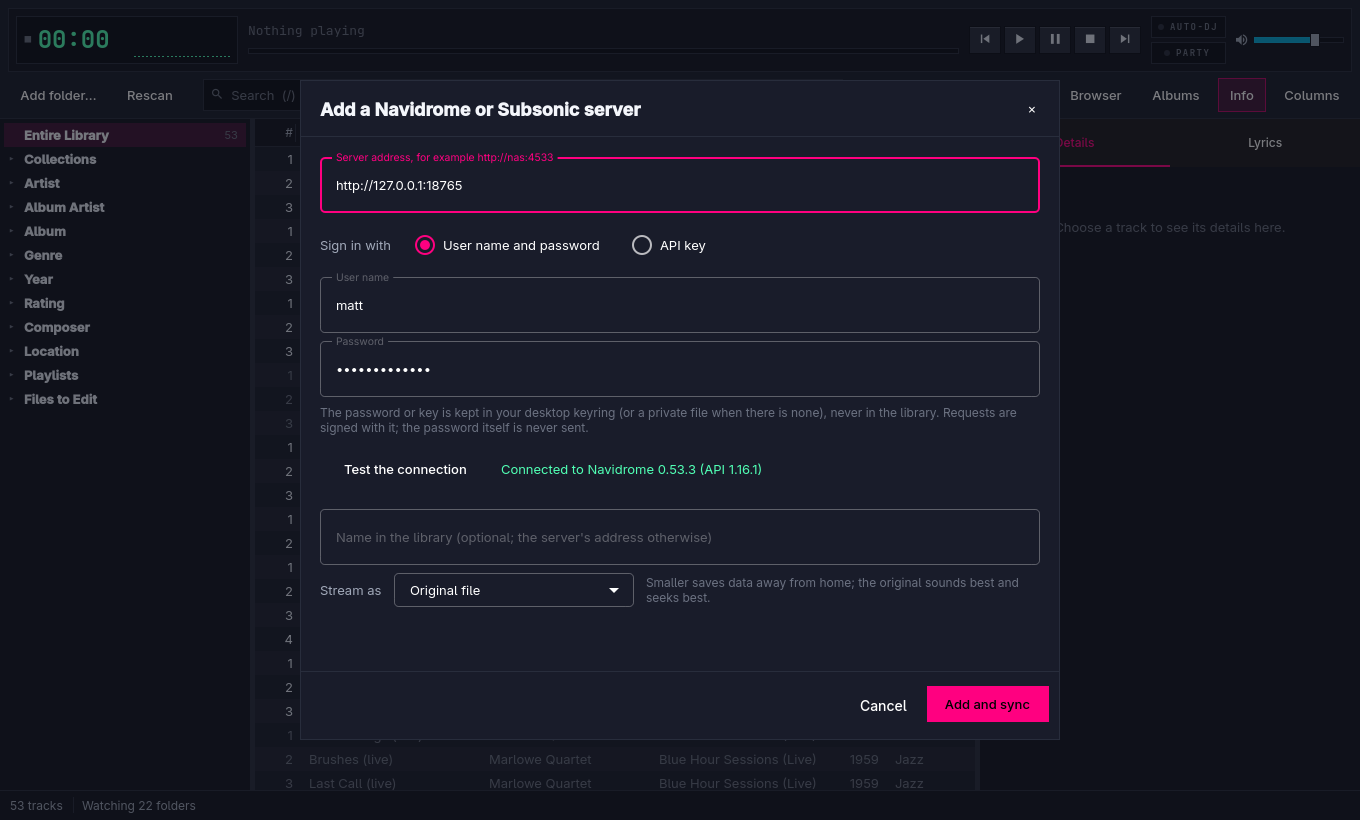
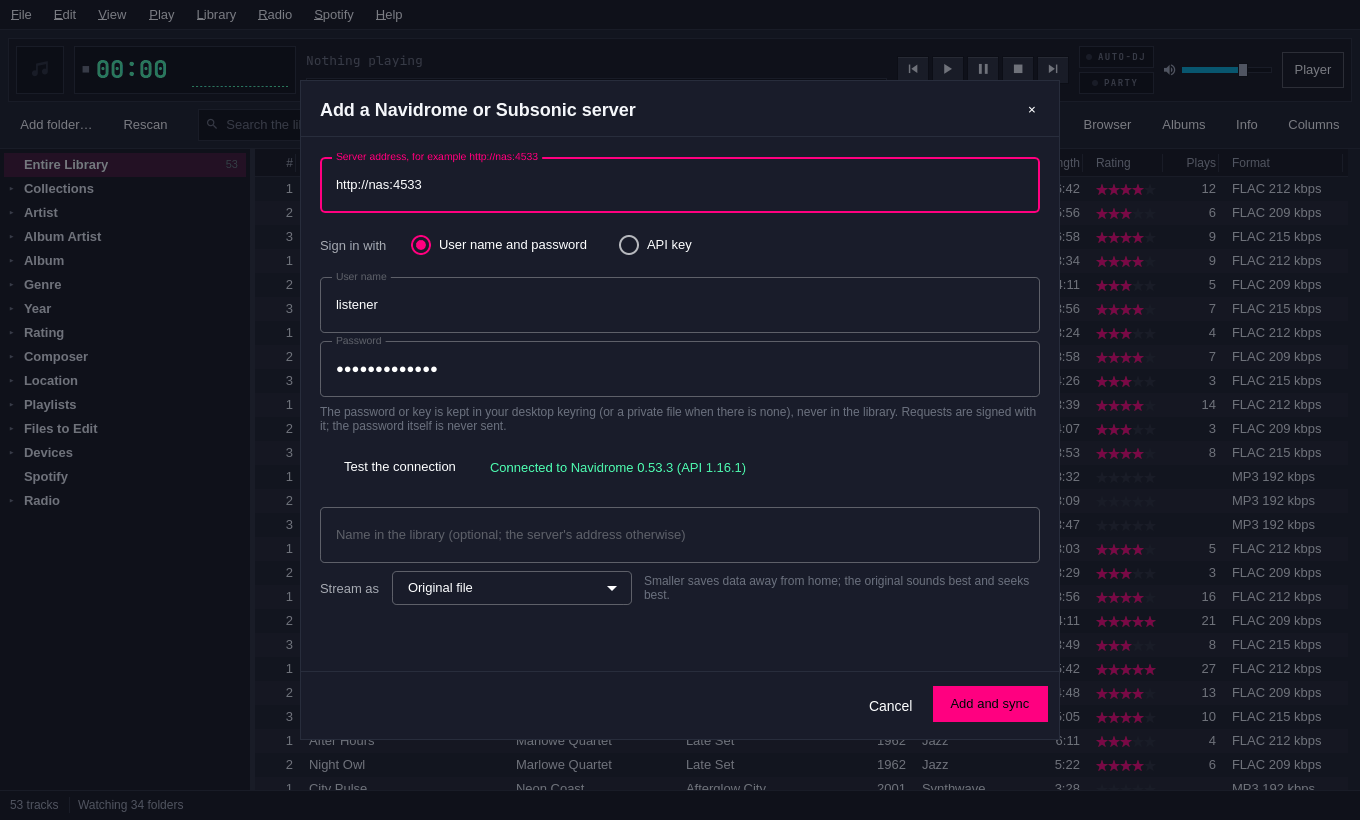
Retake the screenshots in light and dark, with nothing personal in them
Every picture now comes from the made-up library with made-up covers, a
fake Spotify account and pretend radio and Navidrome servers. The old ones
showed a home folder, a temporary path, a user name and a local address.
Guides show the light or dark picture to match GitHub's mode.

diff --git a/docs/spotify.md b/docs/spotify.md
@@ -17,6 +17,8 @@ Free account can browse and search.
 
 ![Settings → Spotify](settings-spotify.png)
 
+![Spotify → Search Spotify… from the deck opens the library on Spotify](menu-spotify-search.png)
+
 ## Signing in
 
 Omamp never asks for your Spotify password and keeps no Spotify token. A
@@ -170,7 +172,10 @@ In the Spotify node:
 
 ### Choosing several rows
 
-![Five tracks chosen in Liked Songs, with Add to playlist open](spotify-multiselect.png)
+<picture>
+  <source media="(prefers-color-scheme: dark)" srcset="spotify-multiselect-dark.png">
+  <img alt="Five tracks chosen in Liked Songs, with Add to playlist open" src="spotify-multiselect-light.png">
+</picture>
 
 Every Spotify list (your playlists' tracks, Liked Songs, an album, an
 artist's page, search results) and the Spotify strip under the library
@@ -285,8 +290,8 @@ JSON: library, search, playback state, play, pause, seek, Like, add to a
 playlist and choose a device. That gives the whole feature without Omamp ever
 touching a credential.
 
-**Spotifast is a second choice, for control only.** It is a good Spotify app
-and Matt already uses it, but its command line plays a link, pauses, seeks and
+**Spotifast is a second choice, for control only.** It is a good Spotify app,
+but its command line plays a link, pauses, seeks and
 reports what is playing; it has no search or library. Omamp uses it for
 exactly that. The official Spotify app offers only MPRIS, so it isn't a
 backend.

diff --git a/docs/now-playing.md b/docs/now-playing.md
@@ -5,7 +5,10 @@ of advanced mode, the Now Playing list, the info panel and the big Now
 Playing view. Each shows the track's cover. The mini and micro players
 shrink the window to a strip, and the deck can wear three styles.
 
-![The big Now Playing view in the Night Ride theme](now-playing-big.png)
+<picture>
+  <source media="(prefers-color-scheme: dark)" srcset="now-playing-big-dark.png">
+  <img alt="The big Now Playing view, with timed lyrics and the analyser" src="now-playing-big-light.png">
+</picture>
 
 ## The cover
 
@@ -69,13 +72,19 @@ party mode locks.
 | `Ctrl+M` | The mini player, and back |
 | `Ctrl+Shift+M` | The micro player, and back |
 
-![The mini player](mini-player.png)
+<picture>
+  <source media="(prefers-color-scheme: dark)" srcset="mini-player-dark.png">
+  <img alt="The mini player" src="mini-player-light.png">
+</picture>
 
 The **mini player** is a 420 by 64 strip with the cover, the scrolling
 title, the clock, a seek bar, the transport and the volume. It is
 MediaMonkey's MiniPlayer.
 
-![The micro player](micro-player.png)
+<picture>
+  <source media="(prefers-color-scheme: dark)" srcset="micro-player-dark.png">
+  <img alt="The micro player" src="micro-player-light.png">
+</picture>
 
 The **micro player** is a 275 by 28 bar with the play state, the clock,
 the scrolling title, the transport and a thin position line along the

diff --git a/docs/plan/progress.md b/docs/plan/progress.md
@@ -860,7 +860,7 @@ line with the running job below. The deck itself is unchanged. All tests
 pass, including one that drives the real window offscreen from the keyboard.
 Nothing is pushed.
 
-![Advanced mode, made-up library](../advanced-mode.png)
+![Advanced mode, made-up library](../library-dark.png)
 
 ### What was built
 
@@ -1135,7 +1135,7 @@ selection or the scroll position. Text sorts now read an index: sorting
 200,000 tracks by title reaches the screen in 40–45 ms (it was 196–261 ms).
 All tests pass. Nothing is pushed.
 
-![Advanced mode with the browser and the info panel](../advanced-mode.png)
+![Advanced mode with the browser and the info panel](../library-dark.png)
 
 ### What was built
 
@@ -2444,7 +2444,7 @@ Duplicates node finds the same song by tags, bytes or sound and can take
 copies out of the library or move them to the trash. Dates read "12 Jul
 2026". All tests pass. Nothing is pushed.
 
-![The tag editor](../tag-editor.png)
+![The tag editor](../tag-editor-dark.png)
 
 ### What was built
 

diff --git a/docs/nas.md b/docs/nas.md
@@ -96,6 +96,8 @@ section).
 
 ## When the NAS is off
 
+![Volumes: the local music folder, a share that isn't connected, and a Navidrome server](volumes.png)
+
 Every library folder belongs to a volume. A share is recognised by a small
 file, `.omamp-volume-id`, that Omamp writes at the folder you add (when the
 share is writable). If the share is read-only, the server and share name
@@ -199,10 +201,12 @@ the first and last few hundred kilobytes of each file.
 
 ## Navidrome as a source
 
+![Adding a Navidrome server, with the connection tested](remote-source.png)
+
 If the NAS runs Navidrome (or another OpenSubsonic or Subsonic server), add it:
 
 ```sh
-printf '%s\n' "$NAVIDROME_PASSWORD" | omamp remote add subsonic https://nas:4533 --user matt --password-stdin
+printf '%s\n' "$NAVIDROME_PASSWORD" | omamp remote add subsonic https://nas:4533 --user listener --password-stdin
 omamp remote sync
 ```
 

diff --git a/docs/web-metadata.md b/docs/web-metadata.md
@@ -77,6 +77,8 @@ omamp net status | set <key> <value> | unset <key> | clear-cache
 
 ### Identify
 
+![Identify with MusicBrainz: releases, scores and the tag changes](identify.png)
+
 `omamp identify` works the way Picard does.
 
 1. **Cluster.** The tracks the query finds are grouped into would-be albums
@@ -118,6 +120,8 @@ writes it into every track (journalled), and `--save-cover` saves `cover.jpg`
 beside the tracks when the folder has no picture file.
 
 ### Lyrics
+
+![Timed lyrics in the info panel](lyrics.png)
 
 `omamp lyrics <query>` shows the lyrics Omamp already has for each track, in
 this order:

diff --git a/docs/playlists.md b/docs/playlists.md
@@ -102,7 +102,10 @@ path. Nothing disappears from a playlist unless you remove it.
 With Spotify switched on ([spotify.md](spotify.md)), a playlist can hold
 Spotify tracks beside your own files.
 
-![A playlist of local files and Spotify tracks](mixed-playlist.png)
+<picture>
+  <source media="(prefers-color-scheme: dark)" srcset="mixed-playlist-dark.png">
+  <img alt="A playlist of local files and Spotify tracks" src="mixed-playlist-light.png">
+</picture>
 
 - **Adding them.** In the Spotify view or the Spotify strip under the
   library search, choose tracks and use **Add to playlist ▸ Omamp

diff --git a/docs/radio.md b/docs/radio.md
@@ -4,7 +4,10 @@ Omamp plays internet radio. Every Nightride FM and Rekt Network channel is
 built in, with what each one is playing right now. Any other station can be
 found on radio-browser.info or added by its stream address.
 
-![The Nightride FM channels in advanced mode, in the Night Ride theme](radio-channels.png)
+<picture>
+  <source media="(prefers-color-scheme: dark)" srcset="radio-channels-dark.png">
+  <img alt="The Nightride FM channels in the library, with Darksynth on air" src="radio-channels-light.png">
+</picture>
 
 ## Tune in
 

diff --git a/omarchy-plugin/README.md b/omarchy-plugin/README.md
@@ -2,7 +2,10 @@
 
 A bar widget and panel for Omamp, plugin id `contra.omamp`.
 
-![The Omamp widget and its panel](../docs/omarchy-plugin.png)
+<picture>
+  <source media="(prefers-color-scheme: dark)" srcset="../docs/omarchy-plugin-dark.png">
+  <img alt="The Omamp widget in the bar and its panel" src="../docs/omarchy-plugin-light.png">
+</picture>
 
 The picture is rendered off-screen from `Widget.qml` with made-up track data.
 
